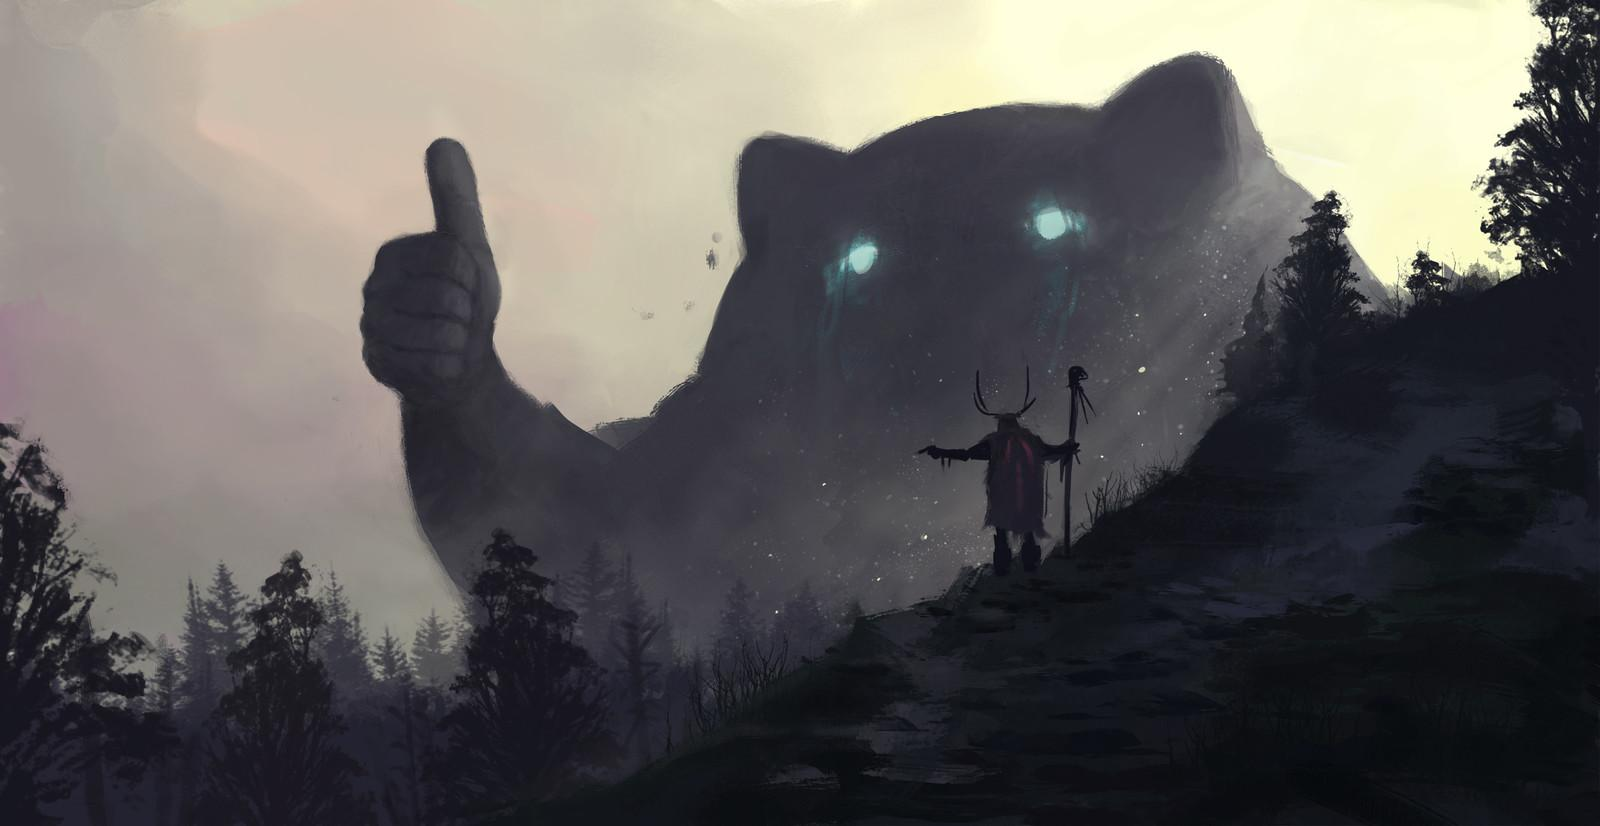
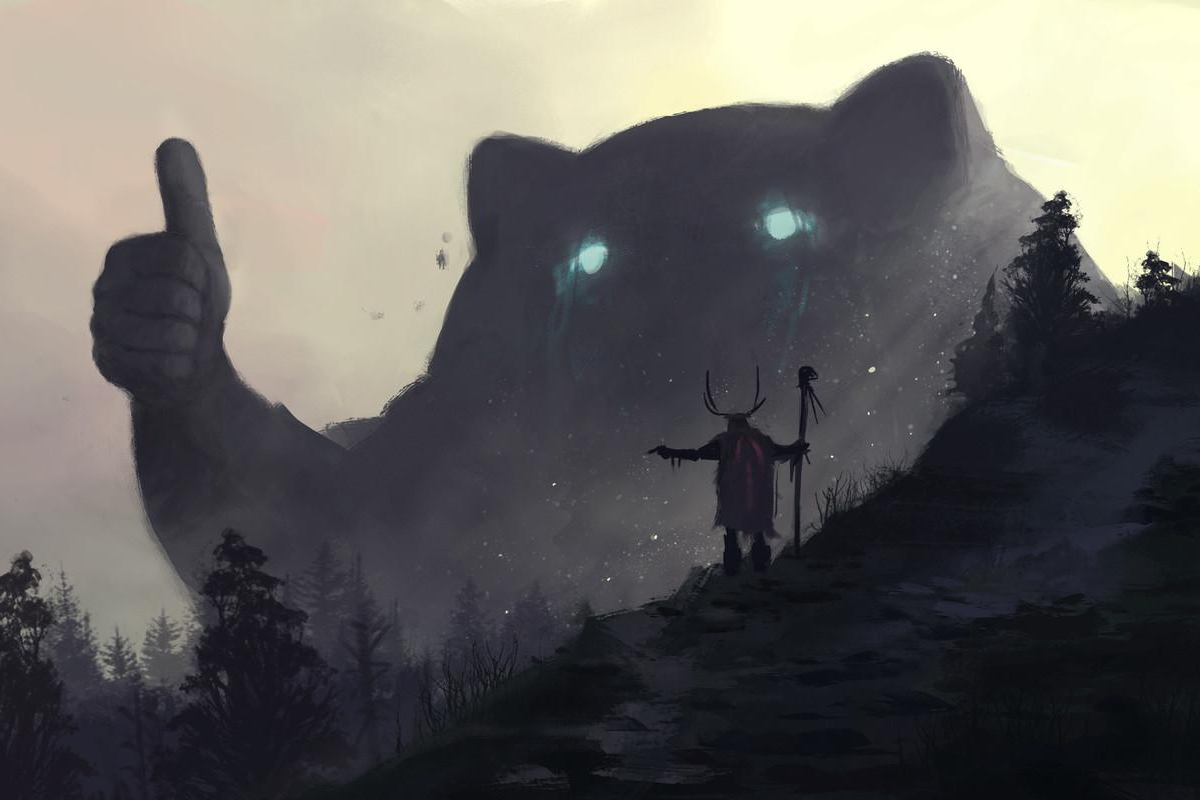
front end updates and tweaks

diff --git a/src/components/OtherCharacters/OtherCharacters.jsx b/src/components/OtherCharacters/OtherCharacters.jsx
@@ -202,10 +202,19 @@ const OtherCharacters = (props) => {
 											))}
 									</List>
 								))}
-								{props.myCharacter.tags.indexOf('Control') !== -1 && (
+								{props.control && (
 									<List hover>
 										<p style={{ backgroundColor: getFadedColor('Unknown'), color: getFadedColor(`${'Unknown'}-text`) }}>{'( Hidden )'}</p>
 										{privateCharacters
+											// .filter()
+											.map((character) => (
+												<List.Item key={character._id} style={listStyle(character)}>
+													<CharacterListItem setSelected={setSelected} character={character} tagStyle={tagStyle} key={character._id} />
+												</List.Item>
+											))}
+
+										<p style={{ backgroundColor: getFadedColor('All'), color: getFadedColor(`${'Unknown'}-text`) }}>{'( All Characters )'}</p>
+										{props.characters
 											// .filter()
 											.map((character) => (
 												<List.Item key={character._id} style={listStyle(character)}>

diff --git a/src/components/Actions/Actions.jsx b/src/components/Actions/Actions.jsx
@@ -36,10 +36,6 @@ const Actions = (props) => {
 	}
 
 	const actionTypes = [];
-	const actionsToDisplay = [];
-
-	props.myActions?.forEach((el) => actionsToDisplay.push(el));
-
 	for (const actionType of gameConfig.actionTypes) actionTypes.push(actionType.type);
 
 	return (
@@ -82,7 +78,7 @@ const Actions = (props) => {
 								borderRight: '1px solid rgba(255, 255, 255, 0.12)'
 							}}
 						>
-							<ActionList actions={props.control ? props.filteredActions : actionsToDisplay} actionTypes={actionTypes} selected={selected} handleSelect={handleSelect} />
+							<ActionList actions={props.control ? props.filteredActions : props.myActions} actionTypes={actionTypes} selected={selected} handleSelect={handleSelect} />
 						</div>
 						ActionList
 					</PanelGroup>

diff --git a/src/components/Control/NewCharacter.jsx b/src/components/Control/NewCharacter.jsx
@@ -15,15 +15,15 @@ const NewCharacter = (props) => {
 
 	const { register, control, handleSubmit, reset, formState, watch } = useForm({
 		defaultValues: {
-			characterName: 'New Character',
-			email: '',
+			characterName: 'Character_Name_Here',
+			email: 'temp@temp',
 			wiki: '',
-			tags: ['NPC'],
-			control: ["Add Controller's Name"],
+			tags: ['PC', 'Public'],
+			control: ["Add_Controller_Name"],
 			playerName: '',
 			timeZone: '',
 			bio: '',
-			characterTitle: 'ex: The Agent',
+			characterTitle: 'ex: The Flower Child',
 			pronouns: '',
 			effort: effortTypes,
 			username: 'temp'

diff --git a/src/App.css b/src/App.css
@@ -40,7 +40,7 @@
 }
 
 .img {
-  object-fit: contain;
+  object-fit: fill;
 }
 
 .portrait {
@@ -52,17 +52,12 @@
 }
 
 .container {
-  position: relative;
   width: 100%;
 }
 
 .image {
   opacity: 1;
   display: block;
-  margin-left: auto;
-  margin-right: auto;
-  width: 100%;
-  height: auto;
   transition: .5s ease;
   backface-visibility: hidden;
   object-fit: fill;
@@ -145,8 +140,8 @@
 
 .container {
   display: flex;
-   flex-direction: column;
-   align-items: center;
+  flex-direction: column;
+  align-items: center;
  }
    
  .row {

diff --git a/src/components/Navigation/HomePage.jsx b/src/components/Navigation/HomePage.jsx
@@ -183,7 +183,7 @@ const HomePage = (props) => {
 							}}
 						>
 							<div className="container">
-								<img src={nexus} className={props.disabled ? 'image disabled' : 'image'} height="auto" alt="Failed to load img" />
+								<img src={control2} className={props.disabled ? 'image disabled' : 'image'} height="auto" alt="Failed to load img" />
 							</div>
 							<h6
 								style={{
